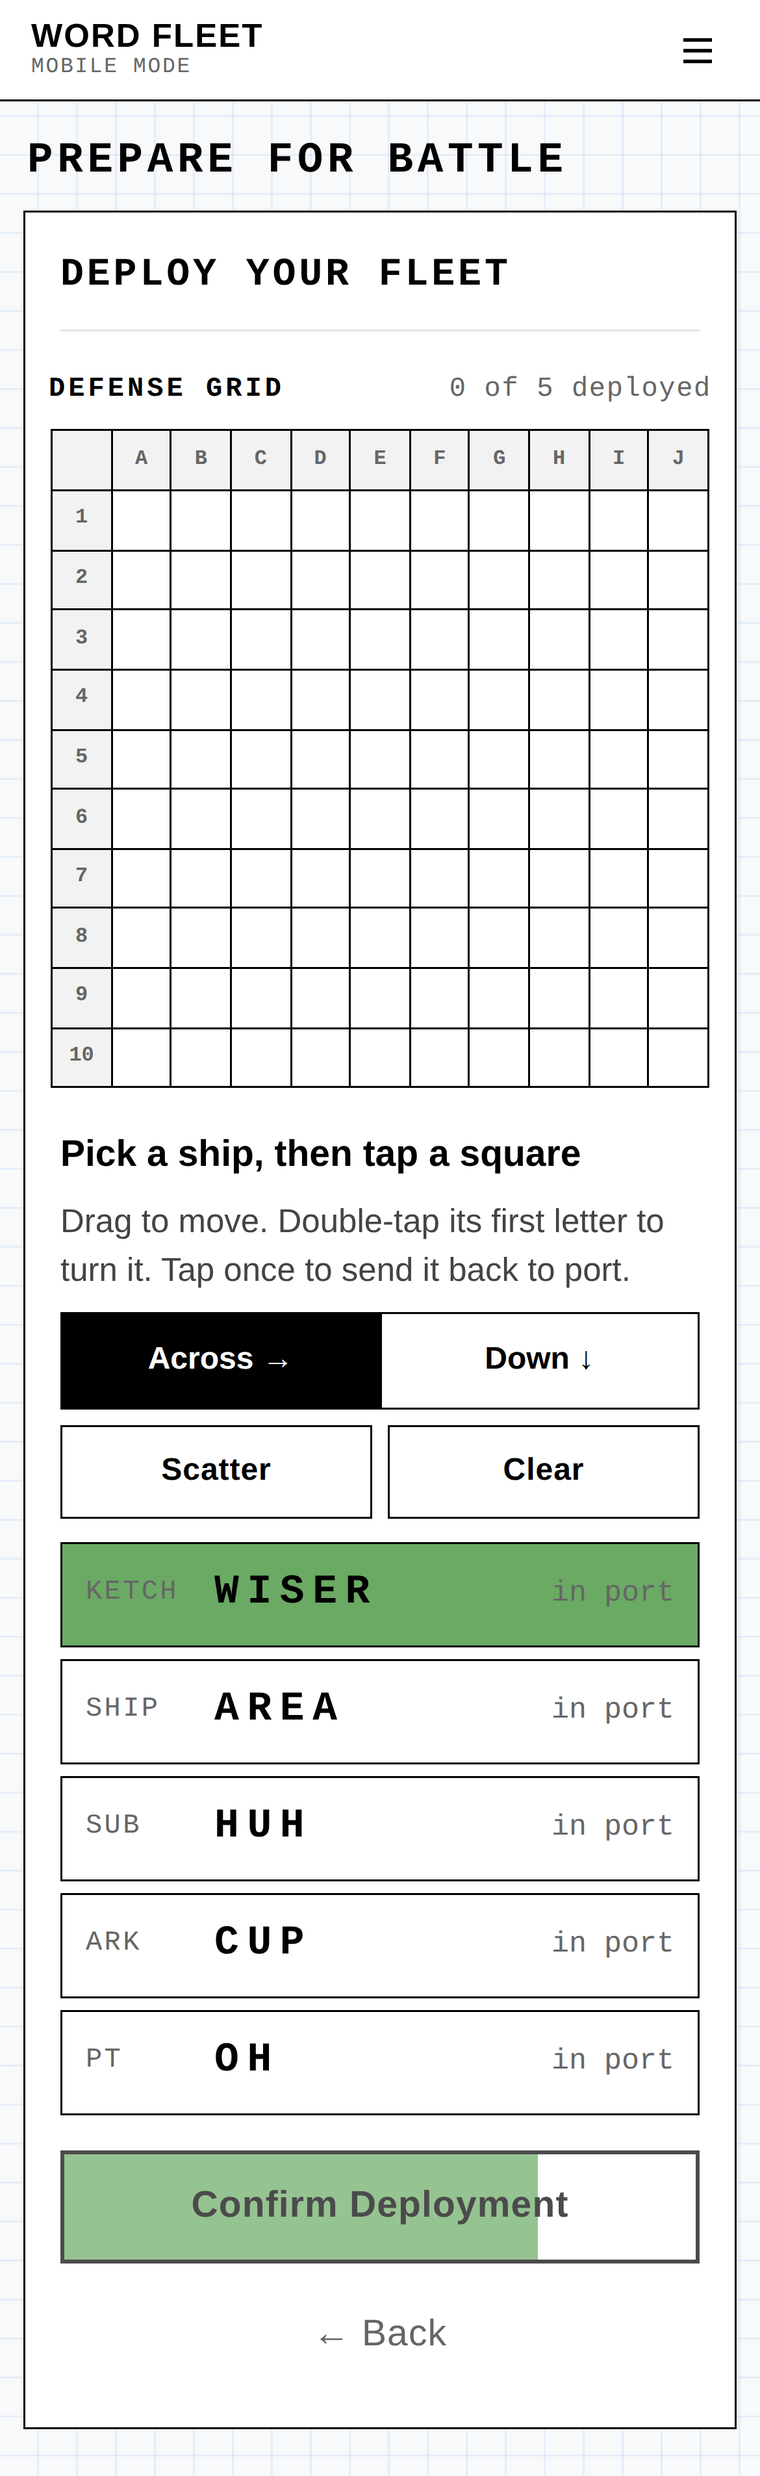
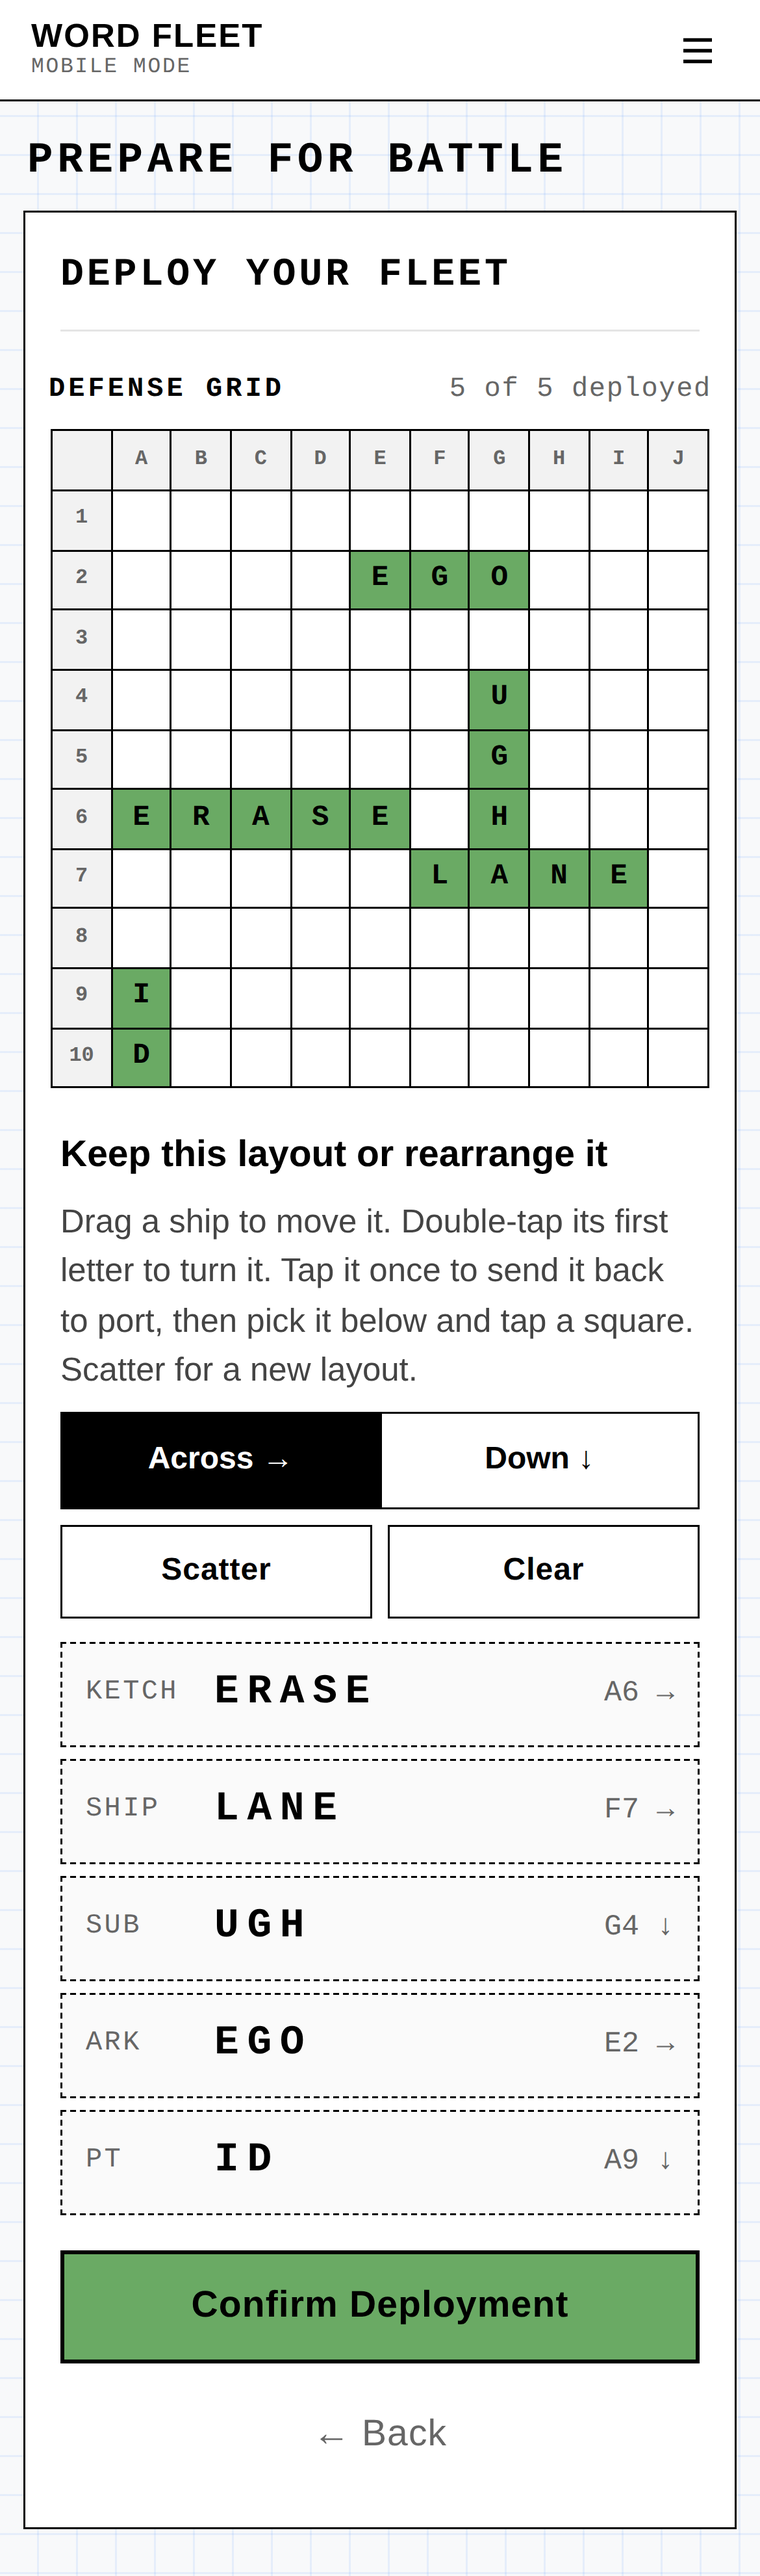
004 opens with the word-ships deployed at random, shown in green
Claude-Session: https://claude.ai/code/session_013sUGAAEC45a1EJCrQWVj9Q

diff --git a/mobile/index.html b/mobile/index.html
@@ -18,7 +18,7 @@
   <link rel="preconnect" href="https://fonts.gstatic.com" crossorigin>
   <link href="https://fonts.googleapis.com/css2?family=Courier+Prime:wght@400;700&family=Inter:wght@400;500;600;700&display=swap" rel="stylesheet">
   <!-- Bump ?v= on every release (and CACHE in sw.js) so a new page never runs old code. -->
-  <link rel="stylesheet" href="app.css?v=51">
+  <link rel="stylesheet" href="app.css?v=52">
 </head>
 <body>
 
@@ -119,9 +119,9 @@
       <div class="grid" id="gridDeploy"></div>
 
       <div class="section-head">
-        <span class="label label--say">Pick a ship, then tap a square</span>
+        <span class="label label--say">Keep this layout or rearrange it</span>
       </div>
-      <p class="hint hint--label">Drag to move. Double-tap its first letter to turn it. Tap once to send it back to port.</p>
+      <p class="hint hint--label">Drag a ship to move it. Double-tap its first letter to turn it. Tap it once to send it back to port, then pick it below and tap a square. Scatter for a new layout.</p>
       <div class="deploy-head">
         <div class="seg seg--sm" id="segDir">
           <button type="button" data-v="H" class="is-on">Across &rarr;</button>
@@ -225,7 +225,7 @@
 
 <div class="toast" id="toast" hidden></div>
 
-<script src="audio.js?v=51"></script>
-<script src="app.js?v=51"></script>
+<script src="audio.js?v=52"></script>
+<script src="app.js?v=52"></script>
 </body>
 </html>

diff --git a/mobile/app.css b/mobile/app.css
@@ -469,3 +469,6 @@ button.mf { font: inherit; color: var(--ink); width: 100%; padding: 3px 0 2px; c
 .setup-big .deploy-head .seg, .setup-big .deploy-head .row { display: flex; width: 100%; gap: 8px; }
 .setup-big .deploy-head .seg { gap: 0; }
 .setup-big .deploy-head .seg button, .setup-big .deploy-head .row .btn { flex: 1; }
+
+/* deployed word-ships show green on 004 */
+#gridDeploy .cell.is-ship { background: var(--green); }

diff --git a/mobile/sw.js b/mobile/sw.js
@@ -1,11 +1,11 @@
 /* Word Fleet service worker: the whole game works offline once loaded. */
-var CACHE = 'wordfleet-v51';
+var CACHE = 'wordfleet-v52';
 var SHELL = [
   './',
   'index.html',
-  'app.css?v=51',
-  'app.js?v=51',
-  'audio.js?v=51',
+  'app.css?v=52',
+  'app.js?v=52',
+  'audio.js?v=52',
   'manifest.webmanifest',
   'icons/icon-180.png',
   'icons/icon-192.png',

diff --git a/mobile/app.js b/mobile/app.js
@@ -441,9 +441,9 @@
       noteFor = first;
       return;
     }
-    S.me.ships = S.me.words.map(function (w) { return { word: w, r: null, c: null, dir: 'H' }; });
+    S.me.ships = scatter(S.me.words);   // 004 opens with the fleet already deployed at random
     S.phase = 'deploy';
-    ui.pick = 0;
+    ui.pick = -1;
     save();
     show('deploy');
   }

diff --git a/mobile/screens/README.md b/mobile/screens/README.md
@@ -11,4 +11,4 @@ referred to by name when asking for changes. Each has a reference snapshot in th
 | **001-MOBILE-PREPARE** | `<section id="scrSetup" data-screen="001-MOBILE-PREPARE">`, `SCREENS.setup` | `001-mobile-prepare.png` | **First screen players see.** Card title "Welcome Captain!". "Choose your language", then "Roll the die or type your own fleet name" (with dice). Changing language rolls a new fleet name in that language (`dictionaries/fleet-names.json`). Button "Next: Choose Your Opponent", filled 25% green as a progress bar. "← Back" goes to the Word Fleet home page (`../`, the site's `index.html`). Screens 001-004 share one look: a "PREPARE FOR BATTLE" page header above the card (`.page-head`), the step's card title, plain-language section headers (`.label--say`), and large, easy-to-read text (`.setup-big`). |
 | **002-MOBILE-OPPONENT** | `<section id="scrOpponent" data-screen="002-MOBILE-OPPONENT">`, `SCREENS.opponent` | `002-mobile-opponent.png` | Card title "Choose Your Opponent", section "Pick the AI Captain you'll face": the three AI Captains (Captain Rubber Duck, Captain Steady, Captain Lexicon), each with a short character sketch. Button "Next: Build Your Word-Ships", filled 50% green. |
 | **003-MOBILE-WORD-SHIPS** | `<section id="scrWords" data-screen="003-MOBILE-WORD-SHIPS">`, `SCREENS.words` | `003-mobile-word-ships.png` | Card title "Build Your Word-Ships". Section "Offensive words": a "Possibly Offensive Words OK" on/off switch, "Applies to both fleets." Section "Your five word-ships" (Refresh All at the right end of its header): "Tap any word to type your own." The five word-ships arrive drawn for your opponent and are editable, each with a ↻ redraw. A typed word is checked against the dictionary when its box loses focus, and every word is checked again on "Next: Deploy Your Fleet" (filled 75% green). |
-| **004-MOBILE-DEPLOY** | `<section id="scrDeploy" data-screen="004-MOBILE-DEPLOY">`, `SCREENS.deploy` | `004-mobile-deploy.png`, `004-mobile-deploy-placed.png` | Step 4 of 4 of Prepare for Battle, same look as 001-003. Card title "Deploy Your Fleet": Defense Grid, section "Pick a ship, then tap a square" ("Drag to move. Double-tap its first letter to turn it. Tap once to send it back to port."), Across/Down, Scatter/Clear, the roster, "Confirm Deployment" (progress bar fills 75% → 100% as ships are placed), Back. |
+| **004-MOBILE-DEPLOY** | `<section id="scrDeploy" data-screen="004-MOBILE-DEPLOY">`, `SCREENS.deploy` | `004-mobile-deploy.png`, `004-mobile-deploy-cleared.png` (after Clear) | Step 4 of 4 of Prepare for Battle, same look as 001-003. Card title "Deploy Your Fleet": opens with the five word-ships already deployed at random, shown in green on the Defense Grid. Section "Keep this layout or rearrange it" (drag to move, double-tap to turn, tap to send back to port, Scatter for a new layout), Across/Down, Scatter/Clear, the roster, "Confirm Deployment" (progress bar fills 75% → 100% as ships are placed), Back. |
